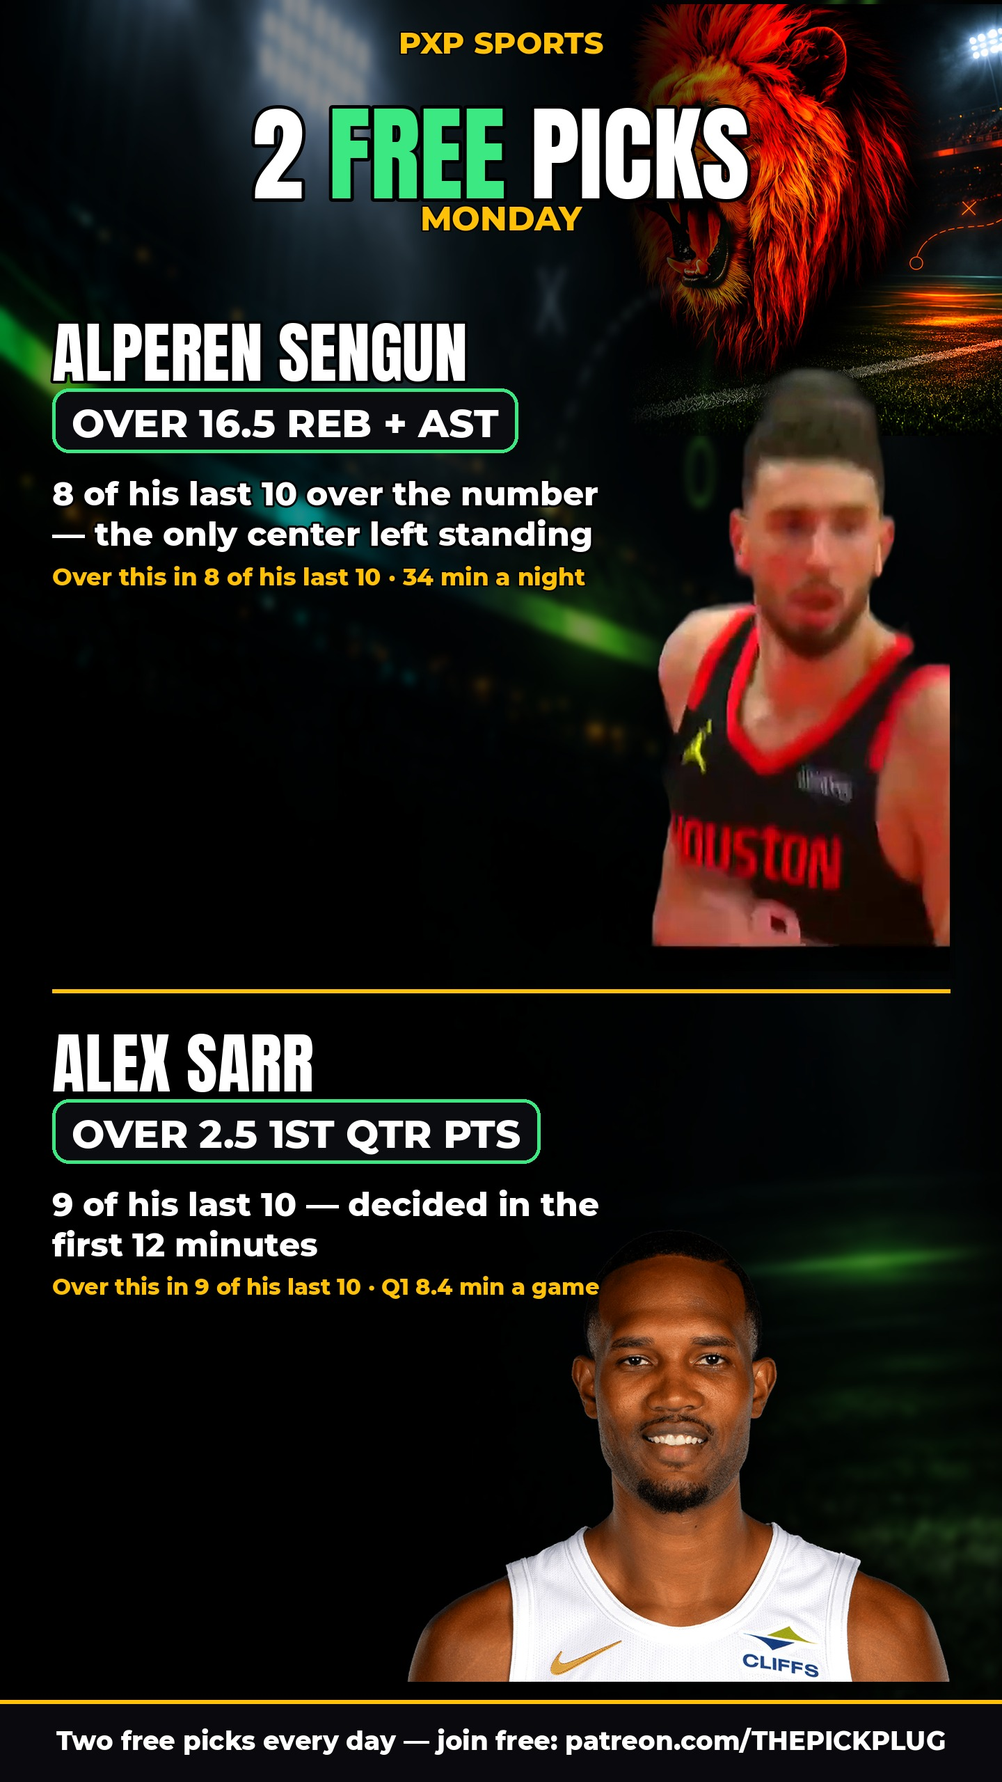
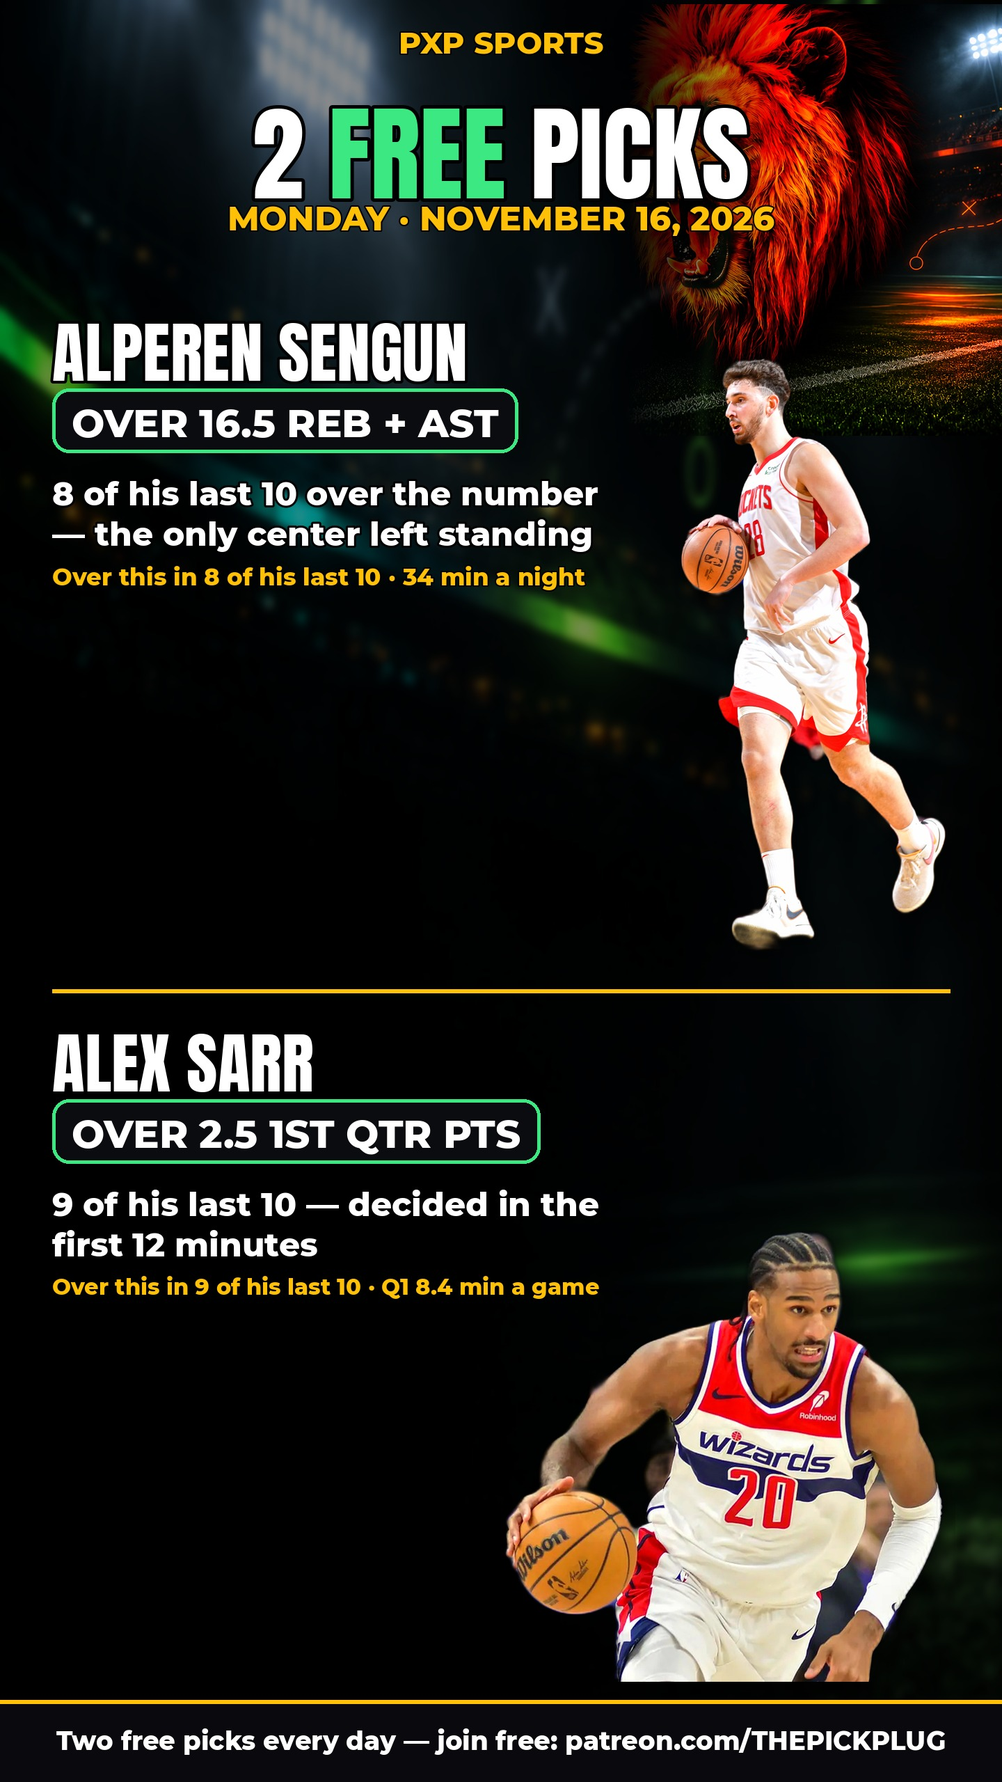
Add The Two Free Pick Show Ep. 3 (Nov 16) — Sengun & Sarr free picks + NFL Week 10 news

diff --git a/coverage/two-free-pick-show-ep03-nov-16/index.html b/coverage/two-free-pick-show-ep03-nov-16/index.html
@@ -1,0 +1,185 @@
+<!doctype html>
+<html lang="en">
+<head>
+<meta charset="utf-8" />
+<meta name="viewport" content="width=device-width, initial-scale=1, viewport-fit=cover" />
+<meta name="color-scheme" content="dark" />
+<title>NBA Picks Today: Sengun &amp; Sarr Free Picks + NFL Week 10 News | The Two Free Pick Show Ep. 3 | PxP Sports Media</title>
+<meta name="description" content="Hakeem hosts Episode 3 of The Two Free Pick Show — yesterday's pair graded 1–1 in public, the NFL Week 10 news, and today's two free picks with the reasons: Alperen Şengün over 16.5 rebounds plus assists and Alex Sarr over 2.5 points in the first quarter." />
+<link rel="canonical" href="https://pxpsportsmedia.com/coverage/two-free-pick-show-ep03-nov-16/" />
+<meta property="og:type" content="website" />
+<meta property="og:site_name" content="PxP Sports Media" />
+<meta property="og:title" content="NBA Picks Today: Sengun &amp; Sarr Free Picks + NFL Week 10 News | The Two Free Pick Show Ep. 3 | PxP Sports Media" />
+<meta property="og:description" content="Hakeem hosts Episode 3 of The Two Free Pick Show — yesterday's pair graded 1–1 in public, the NFL Week 10 news, and today's two free picks with the reasons: Alperen Şengün over 16.5 rebounds plus assists and Alex Sarr over 2.5 points in the first quarter." />
+<meta property="og:url" content="https://pxpsportsmedia.com/coverage/two-free-pick-show-ep03-nov-16/" />
+<meta property="og:image" content="https://pxpsportsmedia.com/assets/img/show-ep03-nov16.jpg" />
+<meta name="twitter:card" content="summary_large_image" />
+<meta name="twitter:title" content="NBA Picks Today: Sengun &amp; Sarr Free Picks + NFL Week 10 News | The Two Free Pick Show Ep. 3 | PxP Sports Media" />
+<meta name="twitter:description" content="Hakeem hosts Episode 3 of The Two Free Pick Show — yesterday's pair graded 1–1 in public, the NFL Week 10 news, and today's two free picks with the reasons: Alperen Şengün over 16.5 rebounds plus assists and Alex Sarr over 2.5 points in the first quarter." />
+<meta name="twitter:image" content="https://pxpsportsmedia.com/assets/img/show-ep03-nov16.jpg" />
+<link rel="icon" href="/favicon.ico" sizes="48x48" />
+<link rel="icon" type="image/png" sizes="192x192" href="/assets/icons/icon-192.png" />
+<link rel="icon" type="image/png" sizes="512x512" href="/assets/icons/icon-512.png" />
+<link rel="manifest" href="/manifest.webmanifest" />
+<meta name="theme-color" content="#05070A" />
+<link rel="apple-touch-icon" href="/assets/icons/apple-touch-icon.png" />
+<meta name="mobile-web-app-capable" content="yes" />
+<meta name="apple-mobile-web-app-capable" content="yes" />
+<meta name="apple-mobile-web-app-status-bar-style" content="black-translucent" />
+<meta name="apple-mobile-web-app-title" content="PxP Sports" />
+<link rel="stylesheet" href="/assets/css/style.css" />
+<!-- Google tag (gtag.js) — GA4, Property 564125133 -->
+<script async src="https://www.googletagmanager.com/gtag/js?id=G-R1PTS5CVKC"></script>
+<script>
+  window.dataLayer = window.dataLayer || [];
+  function gtag(){dataLayer.push(arguments);}
+  gtag('js', new Date());
+  gtag('config', 'G-R1PTS5CVKC');
+</script>
+<script type="application/ld+json">
+{
+  "@context": "https://schema.org",
+  "@type": "Organization",
+  "name": "PxP Sports Media",
+  "url": "https://pxpsportsmedia.com/",
+  "logo": "https://pxpsportsmedia.com/assets/img/logo.jpg",
+  "email": "pxpsports7@gmail.com",
+  "sameAs": [
+    "https://www.youtube.com/channel/UCH2QkHXRCWLIPW5ul1ZuF-Q",
+    "https://www.instagram.com/pxp_sports7",
+    "https://www.tiktok.com/@pxp_sports",
+    "https://www.facebook.com/profile.php?id=61583531123211",
+    "https://www.patreon.com/THEPICKPLUG"
+  ]
+}
+</script>
+<script type="application/ld+json">
+{
+  "@context": "https://schema.org",
+  "@type": "VideoObject",
+  "name": "NBA Picks Today: Sengun & Sarr Free Picks + NFL Week 10 News | The Two Free Pick Show Ep. 3",
+  "description": "Hakeem hosts Episode 3 of The Two Free Pick Show — yesterday's pair graded 1–1 in public, the NFL Week 10 news, and today's two free picks with the reasons: Alperen Şengün over 16.5 rebounds plus assists and Alex Sarr over 2.5 points in the first quarter.",
+  "thumbnailUrl": "https://pxpsportsmedia.com/assets/img/show-ep03-nov16.jpg",
+  "uploadDate": "2026-11-16T00:00:00-05:00",
+  "duration": "PT4M55S",
+  "embedUrl": "https://www.youtube.com/embed/Xsd6-ACSi0o",
+  "publisher": {
+    "@type": "Organization",
+    "name": "PxP Sports Media",
+    "logo": {
+      "@type": "ImageObject",
+      "url": "https://pxpsportsmedia.com/assets/img/logo.jpg"
+    }
+  }
+}
+</script>
+</head>
+<body>
+
+<header class="site">
+  <div class="wrap header-in">
+    <a class="brand" href="/" aria-label="PxP Sports Media — home">
+      <img src="/assets/img/logo.jpg" alt="PxP Sports Media logo" width="79" height="44" />
+      <span><span class="bname">PXP <em>SPORTS</em> MEDIA</span>
+      <span class="btag">Daily Sports Coverage</span></span>
+    </a>
+    <div class="header-spacer"></div>
+    <nav class="main" aria-label="Main">
+      <a href="/coverage/" style="color:var(--green)">Coverage</a>
+      <a href="/scores/">Scores</a>
+      <a href="/standings/">Standings</a>
+      <a href="/the-book/">The Book</a>
+      <a href="/advertise/">Advertise</a>
+      <a href="/about/">About / Media</a>
+    </nav>
+    <a class="btn btn-green btn-sm" href="https://www.patreon.com/THEPICKPLUG" target="_blank" rel="noopener">Join Free</a>
+  </div>
+</header>
+<div class="scoreboard" role="region" aria-label="Live scores">
+  <div class="tk-label"><span class="tk-dot" aria-hidden="true"></span>LIVE SCORES</div>
+  <div class="tk-view">
+    <div class="tk-track" id="tkTrack"><span class="tk-msg">Scores updating…</span></div>
+  </div>
+</div>
+
+<main>
+  <article>
+    <div class="wrap vhead">
+      <p class="kicker">THE TWO FREE PICK SHOW — EPISODE 3</p>
+      <h1>NBA Picks Today: Sengun &amp; Sarr Free Picks + NFL Week 10 News | The Two Free Pick Show Ep. 3</h1>
+      <p class="dek">Hakeem hosts Episode 3 of The Two Free Pick Show — yesterday's pair graded 1–1 in public, the NFL Week 10 news, and today's two free picks with the reasons: Alperen Şengün over 16.5 rebounds plus assists and Alex Sarr over 2.5 points in the first quarter.</p>
+      <p class="meta" style="margin-top:18px">November 16, 2026<span class="dot">•</span>Long-form Show<span class="dot">•</span>PxP Sports Media</p>
+      <div class="embed">
+        <iframe src="https://www.youtube-nocookie.com/embed/Xsd6-ACSi0o"
+          title="NBA Picks Today: Sengun &amp; Sarr Free Picks + NFL Week 10 News | The Two Free Pick Show Ep. 3 — PxP Sports Media" loading="lazy"
+          allow="accelerometer; autoplay; encrypted-media; picture-in-picture"
+          allowfullscreen></iframe>
+      </div>
+    </div>
+    <div class="wrap">
+      <div class="vbody"><p>Episode 3 of The Two Free Pick Show opens on the receipts, like every show: Sunday's free pair graded 1–1 in public — Trey McBride needed 7 catches and got 5, Keenan Allen needed 23 yards and got 61 in his 49ers debut. Running free-pair legs: 11–9, graded in public, wins and losses alike.</p><p>Then the news — NFL Week 10: the Vikings stun the Packers 30–10 in Green Bay, the 49ers top the Cowboys 46–40, and the Bengals roll the Steelers 38–18.</p><aside class="adslot inarticle" aria-label="Advertising partner slot">
+      <div class="ad-lab">Advertisement · Partner Slot</div>
+      <div class="ad-big">Your Brand <span>Here</span></div>
+      <p>In-article partner placement — this space is reserved for a PxP partner. <a href="/advertise/">Become a partner →</a></p>
+    </aside><p>Today's two free picks: Alperen Şengün OVER 16.5 rebounds plus assists at Miami — cleared that number in 8 of his last 10, on the floor 34 minutes a night, and effectively the only center Houston has left — and Alex Sarr OVER 2.5 points in the first quarter against Memphis, at least 3 in the first quarter in 9 of his last 10. Both STRONG LEAN, both posted before tip on every PXP surface; receipts get graded tomorrow morning — win or lose.</p>
+      </div>
+      <div class="facts"><div class="fact"><span class="k">❌ MISS</span><span class="v">Trey McBride OVER 6.5 Receptions — finished 5 REC · Sunday's free pair leg</span></div><div class="fact"><span class="k">✅ HIT</span><span class="v">Keenan Allen OVER 22.5 Receiving Yards — finished 61 YDS · Sunday's free pair leg</span></div><div class="fact"><span class="k">TODAY</span><span class="v">Alperen Şengün OVER 16.5 Rebounds + Assists · Rockets @ Heat, 7:30 PM ET · cleared it in 8 of his last 10</span></div><div class="fact"><span class="k">TODAY</span><span class="v">Alex Sarr OVER 2.5 Points in the First Quarter · Wizards vs Grizzlies, 7:00 PM ET · at least 3 in the first quarter in 9 of his last 10</span></div></div>
+      <p style="margin-top:26px;color:var(--ink-muted)">Watch on: <a href="https://youtu.be/Xsd6-ACSi0o" target="_blank" rel="noopener">YouTube</a></p>
+      <div class="btn-row" style="margin-top:30px">
+        <a class="btn btn-ghost btn-sm" href="/coverage/">← All Coverage</a>
+        <a class="btn btn-green btn-sm" href="https://www.patreon.com/THEPICKPLUG" target="_blank" rel="noopener">Join Free — Two Free Picks Daily</a>
+      </div>
+    </div>
+  </article>
+</main>
+
+<footer class="site">
+  <div class="wrap">
+    <div class="foot">
+      <div>
+        <h4>PxP Sports Media</h4>
+        <p>Verified storylines. Data-driven picks. Real sports culture.</p>
+        <p style="margin-top:10px">An independent digital sports-media outlet — publishing daily coverage, the PXP Recap, and two
+        free picks every day, graded in public.</p>
+        <p style="margin-top:10px"><a href="/scores/">Full Scoreboards</a> · <a href="/standings/">League Standings</a> · <a href="/the-book/">The Book</a> · <a href="/coverage/">Coverage</a></p>
+      </div>
+      <div>
+        <h4>Watch &amp; Follow</h4>
+        <ul>
+          <li><a href="https://www.youtube.com/channel/UCH2QkHXRCWLIPW5ul1ZuF-Q" target="_blank" rel="noopener">YouTube — PxpSportsMedia</a></li>
+          <li><a href="https://www.instagram.com/pxp_sports7" target="_blank" rel="noopener">Instagram — @pxp_sports7</a></li>
+          <li><a href="https://www.tiktok.com/@pxp_sports" target="_blank" rel="noopener">TikTok — @pxp_sports</a></li>
+          <li><a href="https://www.facebook.com/profile.php?id=61583531123211" target="_blank" rel="noopener">Facebook — PxP Sports Media</a></li>
+          <li><a href="https://www.patreon.com/THEPICKPLUG" target="_blank" rel="noopener">Patreon — THEPICKPLUG (Join Free)</a></li>
+          <li><a href="/advertise/">Advertise with PxP</a></li>
+        </ul>
+      </div>
+      <div>
+        <h4>Contact</h4>
+        <ul>
+          <li class="email-line"><a href="mailto:pxpsports7@gmail.com">pxpsports7@gmail.com</a></li>
+          <li>Hakeem McCall — Founder &amp; Publisher</li>
+          <li>Credential &amp; media inquiries welcome — see
+              <a href="/about/">About / Media</a>.</li>
+        </ul>
+      </div>
+    </div>
+    <div class="foot-base">
+      <p class="foot-play">Play the pair: <a href="https://prizepicks.onelink.me/FjtC/hfo8a57s" target="_blank" rel="noopener">PrizePicks</a> · <a href="https://click.dabble.com/GaFA/pc5l1lme" target="_blank" rel="noopener">Dabble</a> — code <strong>PRINCE_HAKEEM</strong> 👑. Signing up through our links supports the house at no extra cost to you.</p>
+      <div class="pwa-door">
+        <button type="button" id="pwa-install" class="pwa-btn">📲 Get the PxP app — add it to your home screen</button>
+        <p id="pwa-ios-hint" class="pwa-hint" hidden>On iPhone/iPad: tap the Share button, then “Add to Home Screen”. On Android/Chrome: open the browser menu and tap “Install app”.</p>
+      </div>
+      <p>© 2026 PxP Sports Media. All highlights and game footage belong to their
+      respective owners; PxP publishes original commentary and analysis under fair
+      use (17 U.S.C. § 107). This site is not affiliated with or endorsed by the
+      NFL, NBA, NCAA, or any team or league.</p>
+      <p>Play responsibly. 21+ (18+ where applicable). Gambling problem?
+      Call 1-800-GAMBLER.</p>
+    </div>
+  </div>
+</footer>
+<script src="/assets/js/scores.js" defer></script>
+<script src="/assets/js/pwa.js" defer></script>
+</body>
+</html>

diff --git a/index.html b/index.html
@@ -113,14 +113,14 @@
     <div class="wrap">
       <p class="kicker">PxP Sports Media</p>
       <h1 class="brandline">Verified storylines. <span class="g">Data-driven picks.</span> Real sports culture.</h1>
-      <a class="topstory" href="/coverage/pxp-sports-picks-recap-ep-10/">
+      <a class="topstory" href="/coverage/two-free-pick-show-ep03-nov-16/">
         <span class="ts-media">
-          <img src="/assets/img/ep10.jpg" alt="PXP Recap Episode 10 thumbnail — McBride and Allen on the front, NEEDED 7 / GOT 5, McBride 5 catches, Allen 61 yards" />
-          <span class="ts-kick">PXP SPORTS PICKS RECAP — EPISODE 10</span>
+          <img src="/assets/img/show-ep03-nov16.jpg" alt="The Two Free Pick Show Episode 3 cover — Alperen Şengün on the left, Prince Hakeem on the right, TODAY'S 2 FREE PICKS, Monday November 16, 2026" />
+          <span class="ts-kick">THE TWO FREE PICK SHOW — EPISODE 3</span>
           <span class="ts-grad">
-            <span class="ts-meta">November 16, 2026<span class="dot">•</span>Long-form Recap</span>
-            <h2 class="ts-head">Needed 7 Catches. Got 5. The Other One Went for 61.</h2>
-            <span class="ts-dek">The free pair split 1–1 — McBride needed 7 catches and got 5, Allen went for 61 in his 49ers debut. Rams 34, Cardinals 6. 49ers 46, Cowboys 40. The receipts, graded in public.</span>
+            <span class="ts-meta">November 16, 2026<span class="dot">•</span>Long-form Show</span>
+            <h2 class="ts-head">NBA Picks Today: Sengun &amp; Sarr Free Picks + NFL Week 10 News | The Two Free Pick Show Ep. 3</h2>
+            <span class="ts-dek">Hakeem hosts Episode 3 of The Two Free Pick Show — yesterday's pair graded 1–1 in public, the NFL Week 10 news, and today's two free picks with the reasons: Alperen Şengün over 16.5 rebounds plus assists and Alex Sarr over 2.5 points in the first quarter.</span>
           </span>
         </span>
       </a>
@@ -137,6 +137,13 @@
       <h2 class="sec">Fresh Off the Desk</h2>
       <div class="rule"></div>
       <div class="slist">
+        <a class="srow" href="/coverage/pxp-sports-picks-recap-ep-10/">
+          <img src="/assets/img/ep10.jpg" alt="PXP Recap Episode 10 thumbnail — McBride and Allen on the front, NEEDED 7 / GOT 5, McBride 5 catches, Allen 61 yards" loading="lazy" />
+          <span class="sbody">
+            <h3>Needed 7 Catches. Got 5. The Other One Went for 61.</h3>
+            <p class="meta">PXP SPORTS PICKS RECAP — EPISODE 10<span class="dot">•</span>November 16, 2026<span class="dot">•</span>Long-form Recap</p>
+          </span>
+        </a>
         <a class="srow" href="/coverage/two-free-pick-show-ep02-nov-15/">
           <img src="/assets/img/show-ep02-nov15.jpg" alt="The Two Free Pick Show Episode 2 cover — Trey McBride on the left, Prince Hakeem on the right, TODAY'S 2 FREE PICKS" loading="lazy" />
           <span class="sbody">
@@ -158,13 +165,6 @@
             <p class="meta">PXP RECAP — EPISODE 9<span class="dot">•</span>November 15, 2026<span class="dot">•</span>Long-form Recap</p>
           </span>
         </a>
-        <a class="srow" href="/coverage/two-free-picks-nov-14-lee-maiava/">
-          <img src="/assets/img/free-pair-2026-11-14.jpg" alt="Today's free pair card — Cayden Lee OVER 60.5 Receiving Yards and Jayden Maiava OVER 234.5 Passing Yards, both GIMME" loading="lazy" />
-          <span class="sbody">
-            <h3>Cayden Lee Over 60.5 &amp; Jayden Maiava Over 234.5 Passing Yards — Two Free Picks Today</h3>
-            <p class="meta">TWO FREE PICKS — SATURDAY<span class="dot">•</span>November 14, 2026<span class="dot">•</span>Short</p>
-          </span>
-        </a>
       </div>
       <div class="btn-row" style="margin-top:24px">
         <a class="btn btn-ghost" href="/coverage/">All Coverage</a>
@@ -177,7 +177,7 @@
       <p class="kicker">The Headline River</p>
       <h2 class="sec">What the Desk Is On</h2>
       <div class="rule"></div>
-      <div class="river"><a href="/scores/"><span class="r-tag">TODAY'S PAIR</span><span class="r-main"><span class="r-title">Monday's Two Free Picks: Şengün Over 16.5 Rebounds+Assists + Sarr Over 2.5 First-Quarter Points — Both STRONG LEAN</span><span class="r-stamp">Today · Nov 16, 2026</span></span></a><a href="/coverage/pxp-sports-picks-recap-ep-10/"><span class="r-tag alt">PXP SPORTS PICKS RECAP — EPISODE 10</span><span class="r-main"><span class="r-title">Needed 7 Catches. Got 5. The Other One Went for 61.</span><span class="r-stamp">November 16, 2026</span></span></a><a href="/coverage/two-free-pick-show-ep02-nov-15/"><span class="r-tag">THE TWO FREE PICK SHOW — EPISODE 2</span><span class="r-main"><span class="r-title">Cardinals vs Rams | 49ers vs Cowboys | The Two Free Pick Show Ep. 2</span><span class="r-stamp">November 15, 2026</span></span></a><a href="/coverage/two-free-picks-nov-15-mcbride-allen/"><span class="r-tag alt">TWO FREE PICKS — SUNDAY</span><span class="r-main"><span class="r-title">He Needs 7 Catches. He Needs 23 Yards. | Two Free Picks Today</span><span class="r-stamp">November 15, 2026</span></span></a><a href="/coverage/recap-episode-9-lee-missed-by-17/"><span class="r-tag">PXP RECAP — EPISODE 9</span><span class="r-main"><span class="r-title">Lee Missed by 17, Maiava Threw for 311 — Nov 14 Card Graded</span><span class="r-stamp">November 15, 2026</span></span></a><a href="/coverage/two-free-picks-nov-14-lee-maiava/"><span class="r-tag alt">TWO FREE PICKS — SATURDAY</span><span class="r-main"><span class="r-title">Cayden Lee Over 60.5 &amp; Jayden Maiava Over 234.5 Passing Yards — Two Free Picks Today</span><span class="r-stamp">November 14, 2026</span></span></a><a href="/coverage/recap-episode-8-toppin-missed-by-one/"><span class="r-tag">PXP RECAP — EPISODE 8</span><span class="r-main"><span class="r-title">Toppin Missed by One (9), Two Tickets Cashed — Nov 13 Card Graded</span><span class="r-stamp">November 14, 2026</span></span></a><a href="/coverage/two-free-picks-nov-13-toppin-marner/"><span class="r-tag alt">TWO FREE PICKS — FRIDAY</span><span class="r-main"><span class="r-title">Obi Toppin Over 9.5 &amp; Mitch Marner Over 0.5 Assists — Two Free Picks Today</span><span class="r-stamp">November 13, 2026</span></span></a>
+      <div class="river"><a href="/scores/"><span class="r-tag">TODAY'S PAIR</span><span class="r-main"><span class="r-title">Monday's Two Free Picks: Şengün Over 16.5 Rebounds+Assists + Sarr Over 2.5 First-Quarter Points — Both STRONG LEAN</span><span class="r-stamp">Today · Nov 16, 2026</span></span></a><a href="/coverage/two-free-pick-show-ep03-nov-16/"><span class="r-tag alt">THE TWO FREE PICK SHOW — EPISODE 3</span><span class="r-main"><span class="r-title">NBA Picks Today: Sengun &amp; Sarr Free Picks + NFL Week 10 News | The Two Free Pick Show Ep. 3</span><span class="r-stamp">November 16, 2026</span></span></a><a href="/coverage/pxp-sports-picks-recap-ep-10/"><span class="r-tag">PXP SPORTS PICKS RECAP — EPISODE 10</span><span class="r-main"><span class="r-title">Needed 7 Catches. Got 5. The Other One Went for 61.</span><span class="r-stamp">November 16, 2026</span></span></a><a href="/coverage/two-free-pick-show-ep02-nov-15/"><span class="r-tag alt">THE TWO FREE PICK SHOW — EPISODE 2</span><span class="r-main"><span class="r-title">Cardinals vs Rams | 49ers vs Cowboys | The Two Free Pick Show Ep. 2</span><span class="r-stamp">November 15, 2026</span></span></a><a href="/coverage/two-free-picks-nov-15-mcbride-allen/"><span class="r-tag">TWO FREE PICKS — SUNDAY</span><span class="r-main"><span class="r-title">He Needs 7 Catches. He Needs 23 Yards. | Two Free Picks Today</span><span class="r-stamp">November 15, 2026</span></span></a><a href="/coverage/recap-episode-9-lee-missed-by-17/"><span class="r-tag alt">PXP RECAP — EPISODE 9</span><span class="r-main"><span class="r-title">Lee Missed by 17, Maiava Threw for 311 — Nov 14 Card Graded</span><span class="r-stamp">November 15, 2026</span></span></a><a href="/coverage/two-free-picks-nov-14-lee-maiava/"><span class="r-tag">TWO FREE PICKS — SATURDAY</span><span class="r-main"><span class="r-title">Cayden Lee Over 60.5 &amp; Jayden Maiava Over 234.5 Passing Yards — Two Free Picks Today</span><span class="r-stamp">November 14, 2026</span></span></a><a href="/coverage/recap-episode-8-toppin-missed-by-one/"><span class="r-tag alt">PXP RECAP — EPISODE 8</span><span class="r-main"><span class="r-title">Toppin Missed by One (9), Two Tickets Cashed — Nov 13 Card Graded</span><span class="r-stamp">November 14, 2026</span></span></a>
       </div>
     </div>
   </section>

diff --git a/coverage/index.html b/coverage/index.html
@@ -92,6 +92,15 @@
       <div class="rule"></div>
       <div class="grid">
       <article class="card">
+        <img class="ph" src="/assets/img/show-ep03-nov16.jpg" alt="The Two Free Pick Show Episode 3 cover — Alperen Şengün on the left, Prince Hakeem on the right, TODAY'S 2 FREE PICKS, Monday November 16, 2026" loading="lazy" />
+        <div class="cbody">
+          <p class="meta">THE TWO FREE PICK SHOW — EPISODE 3<span class="dot">•</span>November 16, 2026</p>
+          <h3 style="margin-top:8px"><a href="/coverage/two-free-pick-show-ep03-nov-16/">NBA Picks Today: Sengun &amp; Sarr Free Picks + NFL Week 10 News | The Two Free Pick Show Ep. 3</a></h3>
+          <p>Hakeem hosts Episode 3 of The Two Free Pick Show — yesterday's pair graded 1–1 in public, the NFL Week 10 news, and today's two free picks with the reasons: Alperen Şengün over 16.5 rebounds plus assists and Alex Sarr over 2.5 points in the first quarter.</p>
+          <div class="btn-row"><a class="btn btn-green btn-sm" href="/coverage/two-free-pick-show-ep03-nov-16/">Watch &amp; Read</a><a class="btn btn-ghost btn-sm" href="https://youtu.be/Xsd6-ACSi0o" target="_blank" rel="noopener">YouTube</a></div>
+        </div>
+      </article>
+      <article class="card">
         <img class="ph" src="/assets/img/ep10.jpg" alt="PXP Recap Episode 10 thumbnail — McBride and Allen on the front, NEEDED 7 / GOT 5, McBride 5 catches, Allen 61 yards" loading="lazy" />
         <div class="cbody">
           <p class="meta">PXP SPORTS PICKS RECAP — EPISODE 10<span class="dot">•</span>November 16, 2026</p>
